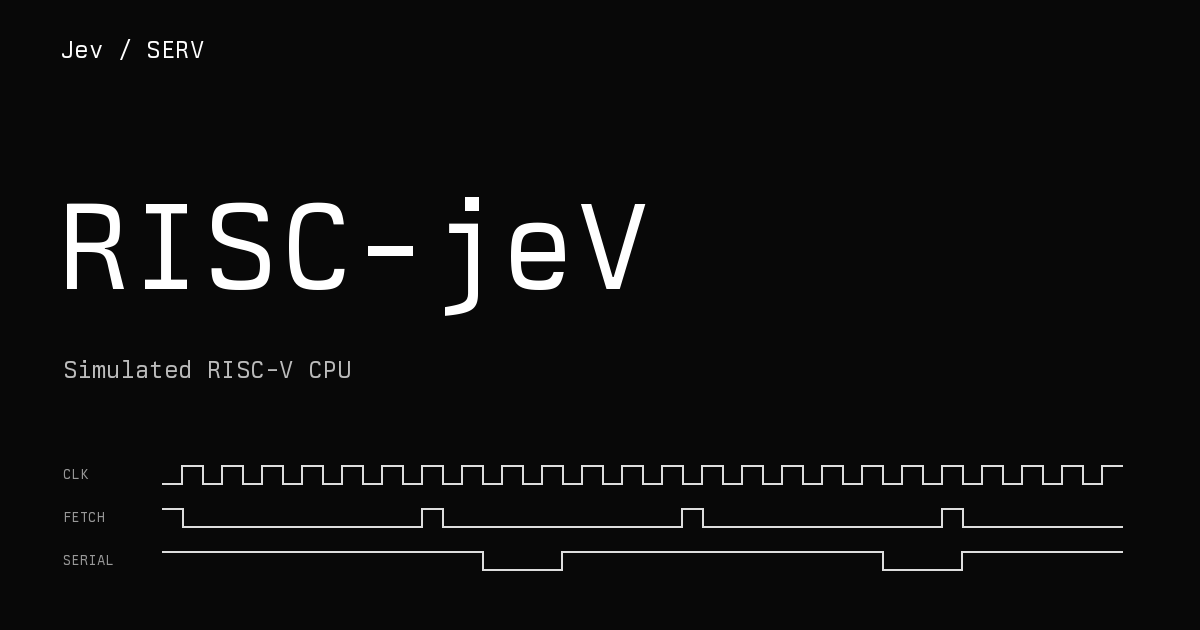
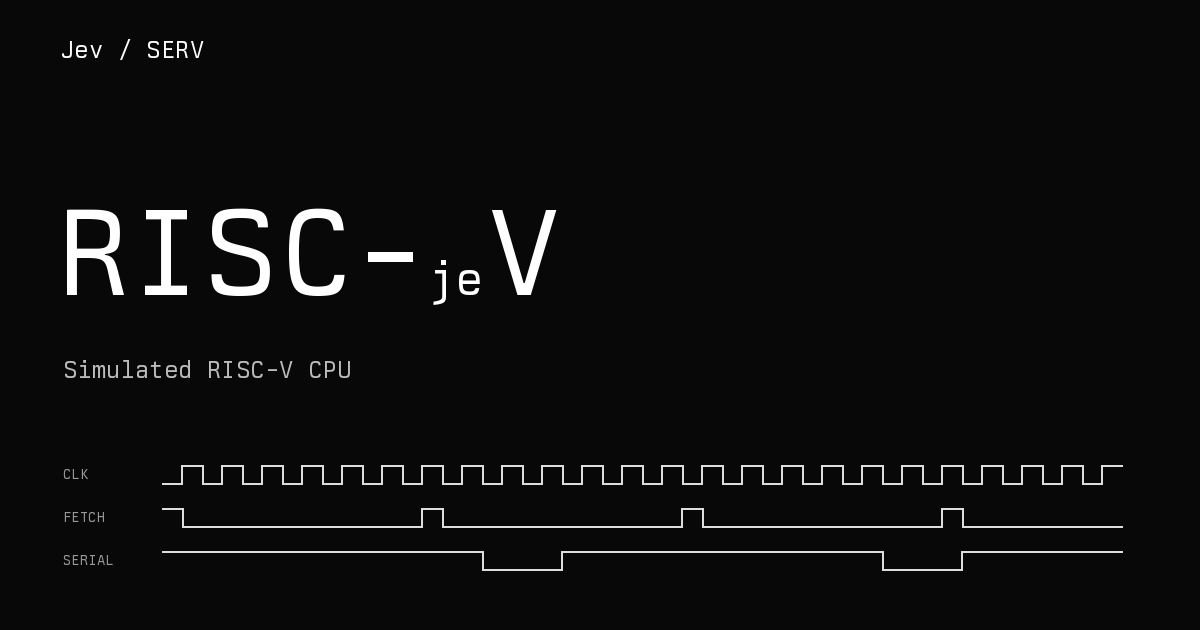
Limit compilation and runtime; refine RISC-jeV title

Changed region(s): [[0.3083, 0.3016, 0.555, 0.5127], [0.0617, 0.3016, 0.3083, 0.4825]]

diff --git a/static/app.js b/static/app.js
@@ -9,6 +9,7 @@ let terminal = false, pendingRows = [], frame = 0, requestNode = null, requestBo
 let samples = [], lastSample = performance.now(), lastCycles = 0, hz = 0;
 let inputTokens = 0, inputCost = 0, wave = [], waveHover = -1;
 let edited = false;
+let compileReadyAt = 0;
 const expressions = { NOT: '!A', AND: 'AB', OR: 'A+B', XOR: 'A^B', MUX: 'S?B:A' };
 
 function element(tag, text, className) {
@@ -23,16 +24,18 @@ async function post(path, data) {
   const response = await fetch(path, { method: 'POST', headers: { 'Content-Type': 'application/json' }, body: JSON.stringify(data) });
   if (!response.ok) {
     let reason = `Request failed (${response.status})`;
-    try { const body = await response.json(); if (body.error) reason = body.error; } catch { /* Non-JSON error */ }
+    try { const body = await response.json(); if (body.error) reason = body.error; if (body.retry_after) compileReadyAt = Date.now() + body.retry_after * 1000; } catch { /* Non-JSON error */ }
     throw new Error(reason);
   }
   return response.json();
 }
 function updateControls() {
   const running = ['running', 'classifying', 'compiling'].includes(state);
-  $('run').textContent = running ? 'Pause' : edited && (!runId || terminal) ? 'Compile & run' : 'Run';
-  $('run').disabled = starting;
-  $('step').disabled = starting || running;
+  const needsCompile = edited && (!runId || terminal);
+  const cooldown = needsCompile ? Math.max(0, Math.ceil((compileReadyAt - Date.now()) / 1000)) : 0;
+  $('run').textContent = running ? 'Pause' : cooldown ? `Compile (${cooldown}s)` : needsCompile ? 'Compile & run' : 'Run';
+  $('run').disabled = starting || cooldown > 0;
+  $('step').disabled = starting || running || cooldown > 0;
   $('gate-source').disabled = !!runId && !terminal;
   $('source').readOnly = !!runId && !terminal;
   $('restore').disabled = !!runId && !terminal;
@@ -179,6 +182,7 @@ async function start(mode) {
     const options = { program, fresh: $('gate-source').value === 'fresh', mode };
     if (edited) options.source = $('source').value;
     const result = await post('/api/runs', options);
+    if (result.compile_cooldown_seconds) compileReadyAt = Date.now() + result.compile_cooldown_seconds * 1000;
     if (token !== generation) { await post(`/api/runs/${result.id}/control`, { action: 'stop' }); return; }
     runId = result.id;
     stream = new EventSource(`/api/runs/${runId}/events`);
@@ -220,6 +224,7 @@ setInterval(() => {
     scheduleRender();
   } else if (state === 'paused') { hz = 0; scheduleRender(); }
   lastCycles = cycles; lastSample = now;
+  if (compileReadyAt) updateControls();
 }, 250);
 for (let bit = 0; bit < 32; ++bit) {
   const node = element('span', String(bit)); node.title = `Bit ${bit}`; $('bit-strip').append(node);
@@ -319,4 +324,8 @@ if (location.hash.startsWith('#code=')) {
     for (const tab of document.querySelectorAll('[data-program]')) tab.setAttribute('aria-selected', String(tab.dataset.program === program));
   } catch (e) { error(e.message); }
 }
+fetch('/api/limits').then(response => response.json()).then(data => {
+  if (data.compile_retry_after) compileReadyAt = Math.max(compileReadyAt, Date.now() + data.compile_retry_after * 1000);
+  updateControls();
+}).catch(() => {});
 render();

diff --git a/templates/index.html b/templates/index.html
@@ -20,7 +20,7 @@
 <body>
   <main>
     <header><a class="wordmark" href="/">Jev <span>/</span> SERV</a><div class="header-actions"><button id="share">Share program</button><div id="status" role="status">Idle</div></div></header>
-    <section class="intro"><h1>RISC-jeV</h1><a class="byline" href="https://x.com/i2cjak" target="_blank" rel="noopener noreferrer">by @i2cjak ↗</a></section>
+    <section class="intro"><h1>RISC-<span class="little-je">je</span>V</h1><a class="byline" href="https://x.com/i2cjak" target="_blank" rel="noopener noreferrer">by @i2cjak ↗</a></section>
     <section class="metrics" aria-label="Execution statistics">
       <div class="clock" title="Simulated CPU cycles per wall-clock second. Includes Jev latency; excludes time paused. Final value is the run average.">
         <span>Clock speed</span><div><strong id="hz">0</strong> <span id="hz-unit">Hz</span></div>
@@ -46,7 +46,7 @@
     </section>
     <div class="workspace">
       <div class="program-pane">
-        <section class="panel source-panel"><div class="panel-title"><h2>Program</h2><span id="filename">fibonacci.c</span></div><textarea id="source" aria-label="C program editor" spellcheck="false" autocapitalize="off" autocomplete="off" autocorrect="off" maxlength="12000">{{ programs[0].source }}</textarea><div class="editor-footer"><span id="compile-status">C → RV32I</span><button id="restore">Restore example</button></div></section>
+        <section class="panel source-panel"><div class="panel-title"><h2>Program</h2><span id="filename">fibonacci.c</span></div><textarea id="source" aria-label="C program editor" spellcheck="false" autocapitalize="off" autocomplete="off" autocorrect="off" maxlength="12000">{{ programs[0].source }}</textarea><div class="editor-footer"><span id="compile-status">C → RV32I</span><span>5 s max</span><button id="restore">Restore example</button></div></section>
         <section class="panel output-panel"><div class="panel-title"><h2>Output</h2><span id="exit-code"></span></div><pre id="output" aria-label="Program output" tabindex="0"></pre></section>
       </div>
       <section class="panel execution-panel"><div class="panel-title"><h2>Execution</h2><span id="pc">0x00000000</span></div>

diff --git a/static/style.css b/static/style.css
@@ -13,3 +13,4 @@
 .wordmark{font-size:16px;color:#eee;text-decoration:none;font-weight:550}.wordmark span{color:#777;margin:0 5px}.header-actions{display:flex;align-items:center;gap:24px}.header-actions button{font-size:11px;min-height:32px;border-color:#333}.intro{display:flex;align-items:flex-end;justify-content:space-between;padding:35px 0 29px;border-bottom:1px solid var(--line);gap:30px}.intro h1{font-size:clamp(42px,6vw,80px);line-height:1.03;letter-spacing:-4px;font-weight:500}.intro p{font-size:13px;line-height:1.9;color:#aaa;padding-bottom:4px}.metrics{min-height:184px}.program-pane{grid-template-rows:374px 186px}.execution-panel{height:578px}.source-panel{display:flex;flex-direction:column}#source{display:block;flex:1;width:100%;min-height:0;height:auto;border:0;border-radius:0;outline:none;background:transparent;color:#eee;font:12px/1.8 Berkeley,monospace;padding:16px 17px;resize:none;white-space:pre;tab-size:4;scrollbar-width:thin;scrollbar-color:#555 #111}#source:focus{box-shadow:inset 0 0 0 1px #777}.editor-footer{display:flex;align-items:center;justify-content:space-between;gap:10px;height:36px;min-height:36px;border-top:1px solid var(--line);padding:0 14px;font-size:10px;color:#999}.editor-footer button{font-size:10px;min-height:26px;border:0;padding:0 0 0 8px}.controls .primary{white-space:nowrap}#error{white-space:pre-wrap}
 @media(max-width:700px){.intro{padding:28px 0;display:block}.intro h1{font-size:49px;letter-spacing:-2.8px}.intro p{font-size:11px;line-height:1.8;margin-top:17px}.header-actions{gap:14px}.header-actions button{font-size:9px;padding:0 8px}.wordmark{font-size:13px}.program-pane{grid-template-rows:350px 154px}.execution-panel{height:360px}.controls{flex-wrap:wrap}.controls .primary{flex:1}.controls select{flex:1}.controls button{font-size:12px}}
 .byline{color:#aaa;font-size:12px;text-decoration:none;padding-bottom:6px;white-space:nowrap}.byline:hover{color:#fff;text-decoration:underline}.byline:focus-visible{outline:2px solid #fff;outline-offset:4px}@media(max-width:700px){.byline{display:inline-block;margin-top:17px;font-size:11px;padding:0}}
+.intro h1 .little-je{font-size:.38em;letter-spacing:-.04em;color:inherit;margin:0 .06em 0 .04em;vertical-align:baseline}

diff --git a/app.py b/app.py
@@ -1,6 +1,7 @@
 """Web UI for the real SERV gate simulator. Run with one threaded worker."""
 
 import json
+import math
 import os
 import re
 import subprocess
@@ -27,6 +28,19 @@ jobs_lock = threading.Lock()
 classifier_lock = threading.Lock()
 compiler_lock = threading.Lock()
 rate_limits = {}
+compile_limits = {}
+compile_times = deque()
+COMPILE_COOLDOWN = 30
+COMPILES_PER_MINUTE = 20
+
+
+def compilation_delay(visitor, now):
+    while compile_times and now - compile_times[0] >= 60:
+        compile_times.popleft()
+    remaining = max(0, COMPILE_COOLDOWN - (now - compile_limits.get(visitor, -COMPILE_COOLDOWN)))
+    if len(compile_times) >= COMPILES_PER_MINUTE:
+        remaining = max(remaining, 60 - (now - compile_times[0]))
+    return math.ceil(remaining)
 
 
 def program_data():
@@ -250,6 +264,10 @@ def start_run():
     with jobs_lock:
         now = time.monotonic()
         visitor = request.remote_addr or "unknown"
+        if source is not None:
+            delay = compilation_delay(visitor, now)
+            if delay:
+                return {"error": f"Compilation cooldown: try again in {delay}s.", "retry_after": delay}, 429, {"Retry-After": str(delay)}
         recent = [stamp for stamp in rate_limits.get(visitor, []) if now - stamp < 60]
         if len(recent) >= 12:
             abort(429, "Limit: 12 runs per minute. Try again shortly.")
@@ -263,8 +281,19 @@ def start_run():
                 del jobs[identifier]
         job = Run(data["program"], data.get("fresh", True), data.get("mode", "run"), source)
         jobs[job.id] = job
+        if source is not None:
+            if len(compile_limits) > 10000:
+                compile_limits.clear()
+            compile_limits[visitor] = now
+            compile_times.append(now)
     threading.Thread(target=job.work, daemon=True).start()
-    return {"id": job.id}, 201
+    return {"id": job.id, "compile_cooldown_seconds": COMPILE_COOLDOWN if source is not None else 0}, 201
+
+
+@app.get("/api/limits")
+def limits():
+    with jobs_lock:
+        return {"compile_retry_after": compilation_delay(request.remote_addr or "unknown", time.monotonic())}
 
 
 @app.errorhandler(400)

diff --git a/tests/test_web.py b/tests/test_web.py
@@ -18,6 +18,8 @@ def classified(*args, **kwargs):
 class WebTests(unittest.TestCase):
     def setUp(self):
         web.rate_limits.clear()
+        web.compile_limits.clear()
+        web.compile_times.clear()
         self.client = web.app.test_client()
         self.patcher = patch("app.truth_tables", side_effect=classified)
         self.patcher.start()
@@ -127,6 +129,31 @@ class WebTests(unittest.TestCase):
         self.wait(job, lambda: job.done)
         self.assertEqual(job.state, "error")
         self.assertFalse(any(e["type"] == "request" for e in job.events))
+
+    def test_infinite_loop_is_terminated(self):
+        job = self.start(source='int main(void) { for (;;) { __asm__ volatile ("nop"); } }', fresh=False)
+        self.wait(job, lambda: job.done)
+        self.assertEqual(job.state, "error")
+        self.assertIsNotNone(job.process.poll())
+        self.assertTrue(any("TIMEOUT" in e.get("message", "") for e in job.events))
+
+    def test_compilation_cooldown_is_server_enforced(self):
+        job = self.start(source='int main(void) { return 0; }', fresh=False)
+        self.wait(job, lambda: job.done)
+        response = self.client.post("/api/runs", json={"program": "sum", "source": "int main(void) {return 1;}"})
+        self.assertEqual(response.status_code, 429)
+        self.assertGreater(response.json["retry_after"], 0)
+        self.assertEqual(response.headers["Retry-After"], str(response.json["retry_after"]))
+        self.assertGreater(self.client.get("/api/limits").json["compile_retry_after"], 0)
+        example = self.start(fresh=False)
+        self.wait(example, lambda: example.done)
+        self.assertEqual(example.state, "complete")
+
+    def test_global_compilation_cap_applies_to_another_ip(self):
+        web.compile_times.extend([web.time.monotonic()] * 20)
+        response = self.client.post("/api/runs", json={"program": "sum", "source": "int main(void) {return 0;}"}, environ_overrides={"REMOTE_ADDR": "192.0.2.2"})
+        self.assertEqual(response.status_code, 429)
+        self.assertGreater(response.json["retry_after"], 0)
 
 
 if __name__ == "__main__":

diff --git a/sim.cpp b/sim.cpp
@@ -1,5 +1,6 @@
 #include "serv_netlist.h"
 #include <algorithm>
+#include <chrono>
 #include <cstdlib>
 #include <fstream>
 #include <iostream>
@@ -108,6 +109,8 @@ int main(int argc, char **argv) try {
     ram.resize(65536, 0);
     CPU cpu(argv[2]);
     Waveform waveform;
+    const auto execution_started = std::chrono::steady_clock::now();
+    std::chrono::steady_clock::duration control_wait{};
     uint64_t fetches = 0, loads = 0, stores = 0;
     auto word = [&](uint32_t address) {
         address &= ~3u;
@@ -117,6 +120,10 @@ int main(int argc, char **argv) try {
     };
 
     for (uint64_t cycle = 0; cycle < limit; ++cycle) {
+        if ((cycle & 255u) == 0 && std::chrono::steady_clock::now() - execution_started - control_wait >= std::chrono::seconds(5)) {
+            std::cerr << "SERV TIMEOUT: 5-second execution limit reached; cycles=" << cycle << '\n';
+            return 2;
+        }
         const bool reset = cycle < 8;
         cpu.write(i_rst, reset);
         cpu.write(i_ibus_ack, 0);
@@ -137,7 +144,9 @@ int main(int argc, char **argv) try {
                 waveform.json();
                 std::cout << "}" << std::endl;
                 std::string command;
+                const auto waiting_started = std::chrono::steady_clock::now();
                 if (!std::getline(std::cin, command) || command != "go") return 0;
+                control_wait += std::chrono::steady_clock::now() - waiting_started;
             }
             cpu.write(i_ibus_rdt, instruction);
             cpu.write(i_ibus_ack, 1);

diff --git a/scripts/share_card.py b/scripts/share_card.py
@@ -20,7 +20,13 @@ def face(size):
 image = Image.new("RGB", (1200, 630), "#080808")
 draw = ImageDraw.Draw(image)
 draw.text((60, 35), "Jev / SERV", font=face(24), fill="white")
-draw.text((55, 170), "RISC-jeV", font=face(124), fill="white")
+large = face(124)
+small = face(47)
+draw.text((55, 295), "RISC-", font=large, fill="white", anchor="ls")
+cursor = 55 + draw.textlength("RISC-", font=large)
+draw.text((cursor, 295), "je", font=small, fill="white", anchor="ls")
+cursor += draw.textlength("je", font=small) + 4
+draw.text((cursor, 295), "V", font=large, fill="white", anchor="ls")
 draw.text((63, 355), "Simulated RISC-V CPU", font=face(24), fill="#bcbcbc")
 for row, label in enumerate(("CLK", "FETCH", "SERIAL")):
     top = 465 + row * 43

diff --git a/docs/architecture.md b/docs/architecture.md
@@ -9,8 +9,13 @@ and run it. No shared program runs automatically when its link is opened.
 Visitor compilation uses a separate filesystem, no network, an empty environment,
 and CPU/memory/output/time limits. Railway uses a chroot with a dedicated
 unprivileged UID and seccomp; local Linux uses Bubblewrap plus seccomp. A compiler
-error is returned before making a Jev request. Runs are limited to 250,000 cycles,
-six concurrent runs, and 12 starts per IP per minute.
+error is returned before making a Jev request. Runs stop after five seconds of
+execution or 250,000 cycles, whichever comes first. Paused stepping time is
+excluded. The server allows six concurrent runs and 12 starts per IP per minute.
+Custom compilation has a 30-second per-IP cooldown, a shared limit of 20 per
+minute across the server, and one active compiler. Precompiled examples do not
+consume the compilation quota. The browser shows the cooldown; the server
+enforces it even if the browser is bypassed or reloaded.
 
 Compiles C to RV32I and runs it on a gate-level simulation of the SERV CPU in
 `serv/`. Jev classifies Boolean gate outputs through TypeSafe's
